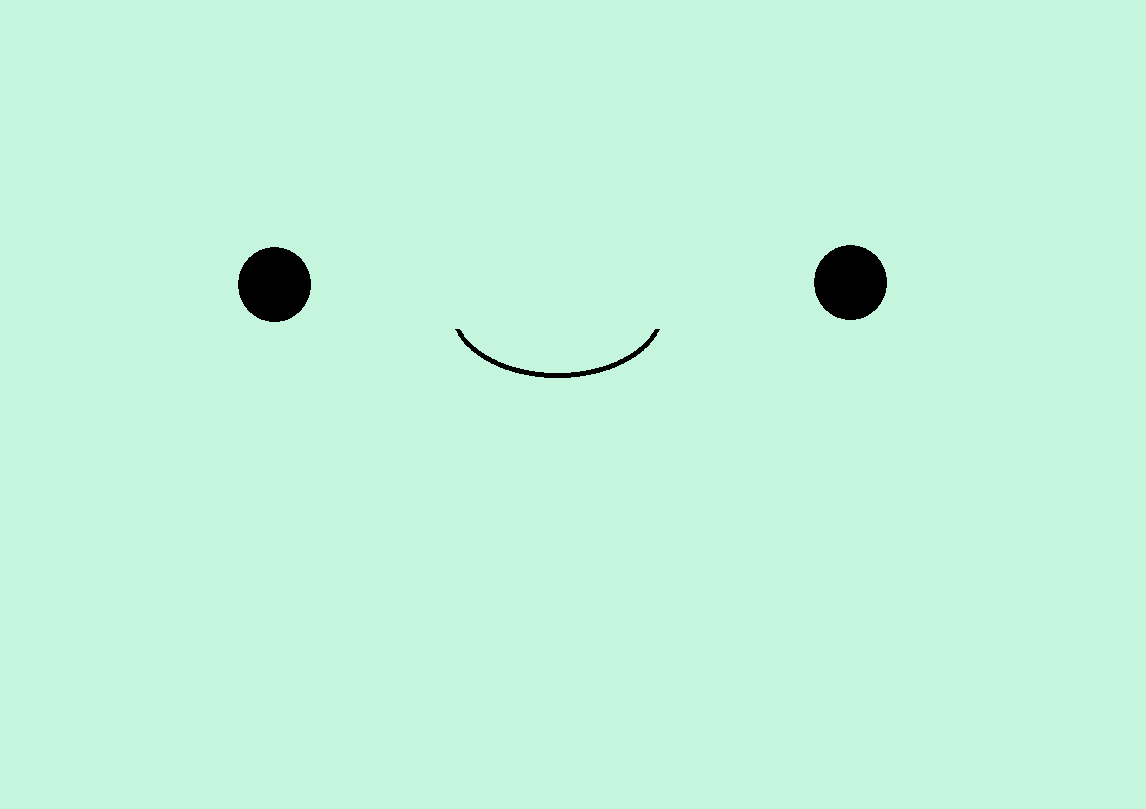
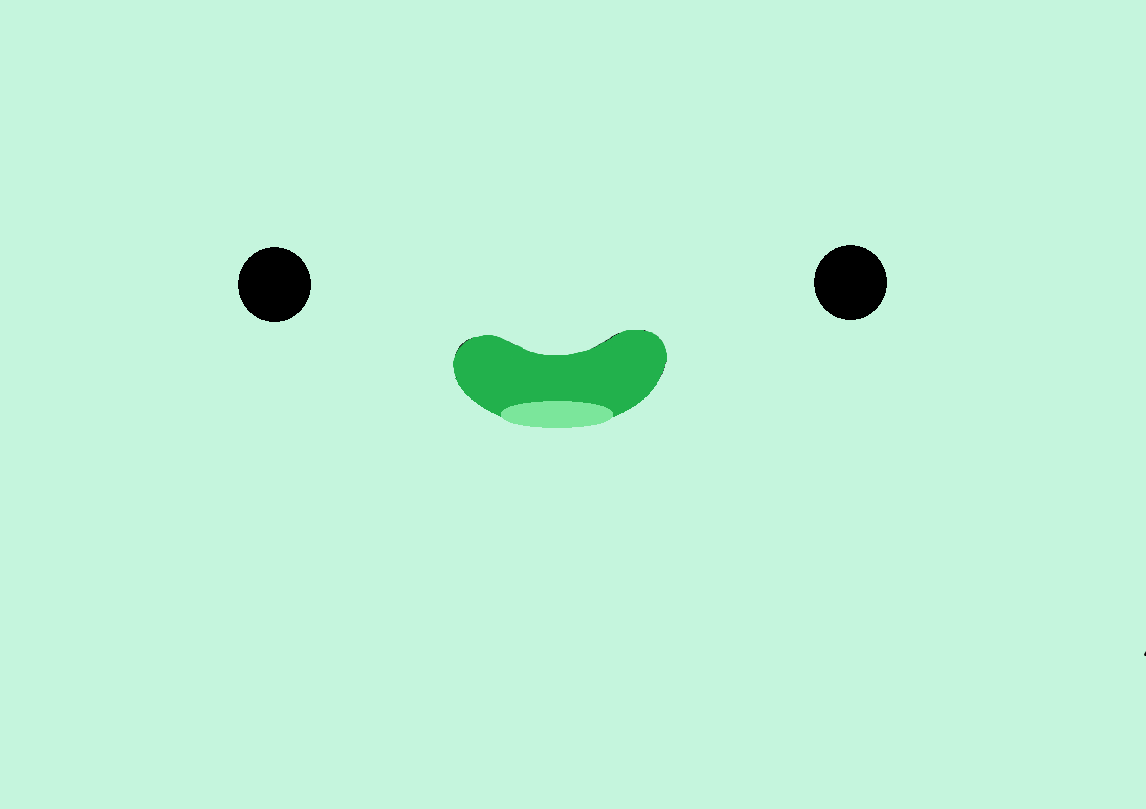
Added introduction message

Changed region(s): [[0.397, 0.4017, 0.5803, 0.5253]]

diff --git a/homePage.htm b/homePage.htm
@@ -6,22 +6,24 @@
     
     <nav id="navigation">
       <div class="tab">
-        <button class="tablinks" onclick="openWelcome()">Home Page</button>
+        <button idclass="tablinks" onclick="openWelcome()">Home Page</button>
         <button class="tablinks" onclick="openChatPage()">Chat</button>
+        
+    <img id="introduction" src="introduction.png" align="right">
       </div>
     </nav>
     
-    <header id="header">
+    <!-- <header id="home-header">
       <p>
-        <span>Welcome!</span>
+        <!-- <img src="introduction.png" align="right"> -->
       </p>
-    </header>
+    </header> -->
+<!-- 
+    <img id="introduction" src="introduction.png" align="right"> -->
     
     <div id="message-container">
       <textarea id="beemo-face" rows="25" cols="75" readonly></textarea>
-      <!-- <button onclick="clearMessages()">Clear Messages</button> -->
         <div id="bottom-background">
-    
         </div>  <div id="send-container">
           <div id="enter-container">
             <textarea id="text-input" rows=3 cols=60></textarea>
@@ -31,6 +33,10 @@
     
       </div>
     </div>
+
+    <!-- <div id="introduction-container">
+      <img src="introduction.png">
+    </div> -->
       
     
     <div id="button-container">
@@ -44,10 +50,10 @@
         </div>    
         <div id="middle-buttons">
           <img src="triangle.png"">
-          <button id="clear-all" onclick="clearMessages()">Clear Messages</button>
+          <img src="red-circle.png"">
         </div>    
         <div id="right-buttons">
-          <button id="clear-input" onclick="clearInputText()">Clear Input</button>
+            <img src="green-circle.png"">
     
     
         </div>

diff --git a/style.css b/style.css
@@ -1,18 +1,40 @@
 #header {
   position: fixed;
   top: 25;
-  right: 0;
+  left: 0;
   height: 50px;
   width: 100%;
   /* border: 3px solid blue; */
   background-color: rgba(0, 202, 253, 0.575);
 }
 
+#home-header {
+  position: fixed;
+  top: 25;
+  left: 0;
+  height: 50px;
+  width: 100%;
+  background-color: rgba(0, 202, 253, 0.575)
+}
+
+#introduction{
+  position: absolute;
+  z-index: 1;
+}
+
+#home-page-button{
+  display: block;
+  height: 75px;
+  width: 75px;
+  border-radius: 50%;
+  background-color: rgba(245, 12, 90, 0.788);
+}
+
 #navigation {
   position: fixed;
   top: 0px;
   right: 0;
-  height: 25px;
+  height: 100px;
   width: 100%;
   /* border: 3px solid blue; */
   background-color: rgba(0, 202, 253, 0.575);
@@ -24,19 +46,15 @@
   align-items: center;
   flex-direction: column;
   position: fixed;
-  top: 75px;
+  top: 100px;
   right: 0;
-  height: 550px;
+  height: 525px;
   width: 100%;
   /* border: 3px solid rgba(0, 0, 255, 0.63); */
   background-color: rgba(82, 184, 159, 0.774);
 }
 
-/* #message-box {
-  display: flex;
-  flex-direction: row;
-  border-style: solid;
-} */
+
 
 #see-message {
   /* width: 100%;

diff --git a/chatPage.htm b/chatPage.htm
@@ -11,12 +11,6 @@
   </div>
 </nav>
 
-<header id="header">
-  <p>
-    <span>Welcome!</span>
-  </p>
-</header>
-
 <div id="message-container">
   <textarea id="see-message" rows="25" cols="75" readonly></textarea>
   <!-- <button onclick="clearMessages()">Clear Messages</button> -->
